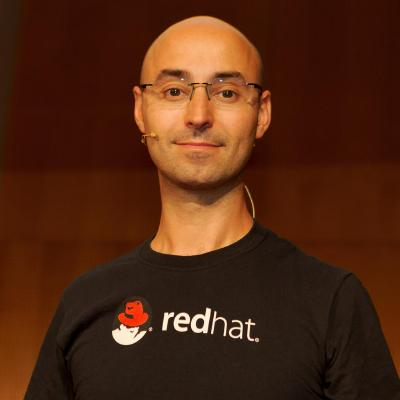
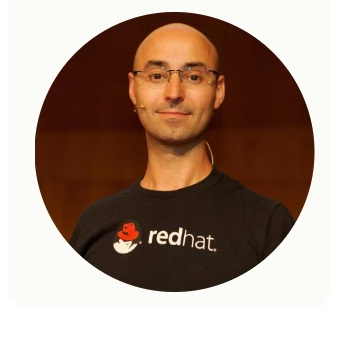
set up proper images

diff --git a/2020/assets/css/eventstation.css b/2020/assets/css/eventstation.css
@@ -6115,6 +6115,10 @@ blockquote.right {
     min-height: 230px;
 }
 
+.speaker-item-topic-wrapper {
+   border-radius: 15px;
+}
+
 .speakers-widget .speaker-item-header .speaker-item-topic-wrapper {
     background: -moz-linear-gradient(top, rgba(0, 0, 0, 0) 50%, rgba(0, 0, 0, 0.65) 100%); /* FF3.6-15 */
     background: -webkit-linear-gradient(top, rgba(0, 0, 0, 0) 50%, rgba(0, 0, 0, 0.65) 100%); /* Chrome10-25,Safari5.1-6 */
@@ -6145,6 +6149,7 @@ blockquote.right {
 .speakers-widget .speaker-item-body {
     color: #FFFFFF;
     padding: 17px 25px 0px;
+    border-radius: 15px;
 }
 
 .speakers-widget.alternative .speaker-item-body {
